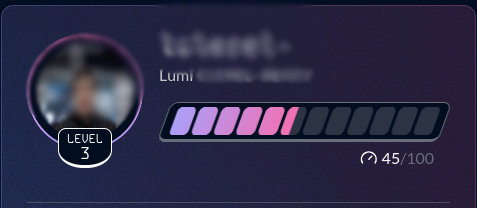
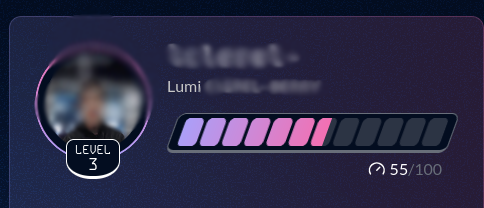
Update Exos

diff --git a/README.md b/README.md
@@ -7,7 +7,7 @@ Bienvenue sur mon dépôt regroupant mes exercices et projets réalisés à **42
 > [!NOTE]
 > Quelques jours apres ma piscine, je risque de faire un article sur mon [site](https://syxpi.fr), Je vous conseille de regarder regulierement 👀
 ## 📊 Mon État d'Avancement
-* **Niveau Actuel :** `Level 3 [45/100 XP]`
+* **Niveau Actuel :** `Level 3 [55/100 XP]`
 
 ![Level](./Images/Level.png)
 
@@ -96,7 +96,7 @@ Voici l'historique de mes validations. Chaque "Attempt" représente une étape d
 | **[C Pointers](./Memory%20Management/C-Pointers/)** | 1 Attempt | ✅ Success | 10/03/2026 9h29 (la fin a été genre quelques heures après) |
 | **[C Simple strings](./Memory%20Management/C-Simple-Strings/)** | 3 Attempts | ✅ Success | 10/03/2026 17h49 - 11/03/2026 11h04 |
 | **[C Function Pointers](./Memory%20Management/C-Function-Pointers/)** | 4 Attempts | ✅ Success | 16/03/2026 13h24 - 19/03/2026 12h22 |
-| **[C Memory Management](./Memory%20Management/C-Memory-Management/)** | [En cours] | ⏳ | 19/03/2026 14h07 - ??? |
+| **[C Memory Management](./Memory%20Management/C-Memory-Management/)** | 5 Attempts | ✅ Success | 19/03/2026 14h07 - 23/03/2026 20h18 |
 | **[C System Interface](./Memory%20Management/C-System-Interface/)** | [En cours] | ⏳ | 19/03/2026 12h24 - ??? |
 
 **Tout mes Tries Reussis** :
